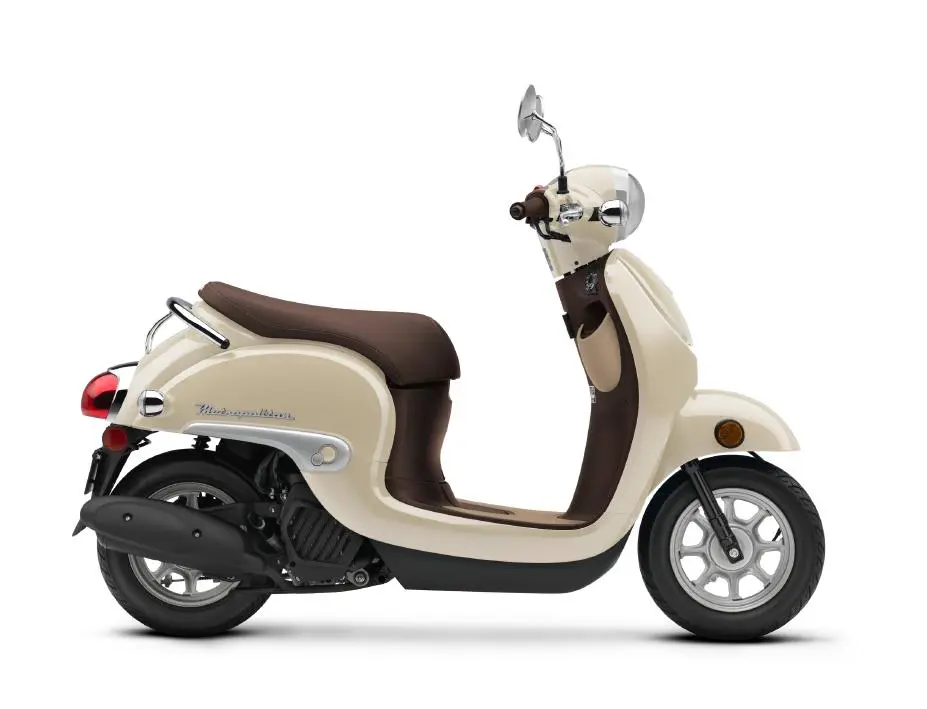
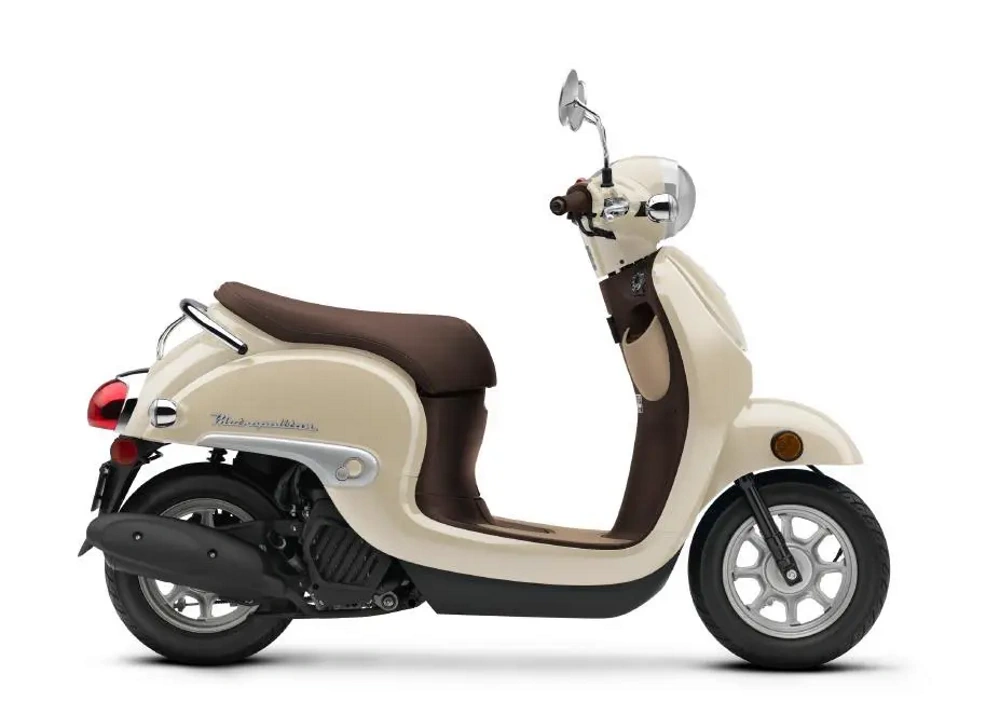
motor img added

diff --git a/final project Scoots/index.html b/final project Scoots/index.html
@@ -54,10 +54,10 @@
             </div>
         </div>
         <div class="motor_card">
-            <li>Honda Metropolitan (49cc) - 1 person</li>
-            <li>Honda Dio (110cc) - 2 person</li>
-            <li>Honda PCX150 (149cc) - 2 person</li>
-            <li>Honda Pioneer 1000 - 4 person</li>
+            <span><img src="images/hondametropolitan_2013_1.webp" alt="hondametropolitan_2013"><br> Metropolitan (49cc) - 1 person</span>
+            <span><img src="images/hondadio_2020_1.webp" alt="hondadio_2020"><br>Honda Dio (110cc) - 2 person</span>
+            <span><img src="images/hondaPCX150_2.webp" alt="hondaPCX150"><br>Honda PCX150 (149cc) - 2 person</span>
+            <span><img src="images/hondapioneer1000_1.webp" alt="hondapioneer1000"><br>Honda Pioneer 1000 - 4 person</span>
         </div>
         <div class="motor_card">
             <li>Jeep Wrangler - 4 door manuel with A/C - 5 person</li>

diff --git a/final project Scoots/styles/base.css b/final project Scoots/styles/base.css
@@ -92,15 +92,33 @@ body {
 /*-----------------------------------main-------------------------------------*/
 
 .weather_card {
-    width: 100%;
     margin: 5px;
     padding: 5px;
-    font-size: 25px;
-    word-spacing: 10px;
+    font-size: 23px;
+    border: 1px solid;
+    background-color:rgb(224, 224, 224) ;
+    text-align: center;
 }
 
 #weather-icon {
     width: 80px;
+}
+
+.motor_card {
+    margin: 5px;
+    padding: 5px;
+    display: flex;
+    border: 1px solid;
+    text-align: center;
+    justify-content: center;
+    flex-wrap: wrap;
+}
+.motor_card img {
+    width: 200px;
+}
+.motor_card span {
+    padding: 5px;
+    margin: 5px;
 }
 
 /*-----------------------------------footer-------------------------------------*/
